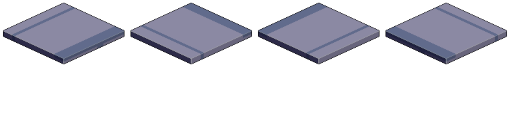
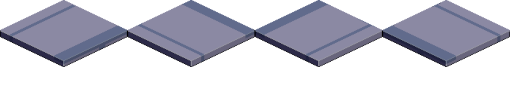
fix: fixed floors

diff --git a/include/init_world.h b/include/init_world.h
@@ -34,60 +34,32 @@ static const init_world_t FLOOR_BLOCK_INIT[] =
         .texture_name = WOOD_FLOOR
     },
     {
-        .c = 'z',
-        .texture_name = SIDE_WALK_CHUNK
-    },
-    {
-        .c = 'y',
-        .texture_name = SIDE_WALK_CHUNK2
-    },
-    {
-        .c = 'w',
-        .texture_name = SIDE_WALK_CHUNK3
-    },
-    {
-        .c = 'v',
-        .texture_name = SIDE_WALK_CHUNK4
-    },
-    {
-        .c = 'u',
-        .texture_name = SIDE_WALK_TILE
-    },
-    {
-        .c = 't',
-        .texture_name = SIDE_WALK_TILE1
-    },
-    {
         .c = 'p',
         .texture_name = ROAD_CHUNK
     },
     {
-        .c = 'o',
-        .texture_name = ROAD_CHUNK1
+        .c = 's',
+        .texture_name = SIDE_WALK_CHUNK
     },
     {
-        .c = 'n',
-        .texture_name = ROAD_CHUNK2
+        .c = 'u',
+        .texture_name = SIDE_WALK_TILE1
     },
     {
-        .c = 'm',
-        .texture_name = ROAD_CHUNK3
-    },
-    {
-        .c = 'l',
-        .texture_name = ROAD_CHUNK4
-    },
-    {
-        .c = 'k',
-        .texture_name = ROAD_CHUNK5
-    },
-    {
-        .c = 'j',
+        .c = 'i',
         .texture_name = ROAD_CHUNK6
     },
     {
         .c = '*',
         .texture_name = MANHOLE
+    },
+    {
+        .c = 'r',
+        .texture_name = ROAD_CHUNKR
+    },
+    {
+        .c = 'e',
+        .texture_name = ROAD_CHUNKE
     },
     {
         .c = -1,

diff --git a/include/init_texture.h b/include/init_texture.h
@@ -58,6 +58,8 @@ enum Tiles {
     POOR_TABLE,
     ARROW_WALL,
     ROAD_CHUNK,
+    ROAD_CHUNKR,
+    ROAD_CHUNKE,
     ROAD_CHUNK1,
     ROAD_CHUNK2,
     ROAD_CHUNK3,
@@ -447,6 +449,18 @@ static const init_texture_t TILES_TEXTURE_INIT[] = {
         .texture_path = "./assets/blocks/floors/Road_Chunk.png",
         .texture_name = ROAD_CHUNK,
         .rect = {0, 0, 128, 105},
+        .frame_nb = 1
+    },
+    {
+        .texture_path = "./assets/blocks/floors/Road_Chunk.png",
+        .texture_name = ROAD_CHUNKR,
+        .rect = {256, 0, 128, 105},
+        .frame_nb = 1
+    },
+    {
+        .texture_path = "./assets/blocks/floors/Road_Chunk6.png",
+        .texture_name = ROAD_CHUNKE,
+        .rect = {256, 0, 128, 105},
         .frame_nb = 1
     },
     {
